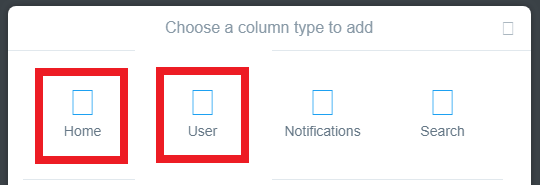
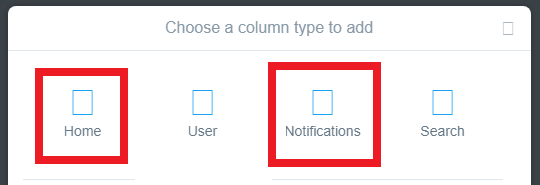
update README.md

Changed region(s): [[0.2667, 0.3243, 0.7111, 0.9189], [0.237, 0.2703, 0.5037, 0.2973]]

diff --git a/README.md b/README.md
@@ -50,10 +50,10 @@
 
 4. 트위터 로그인을 진행합니다.
 
-5. `Add Column` 을 눌러 스트리밍을 사용하려는 계정의 `Home` 과 `User` 를 추가해줍니다.
+5. `Add Column` 을 눌러 스트리밍을 사용하려는 계정의 `Home` 과 `Notification` 두개 를 추가해줍니다.
 
-  - Home 만 추가해줘도 되지만 Activity 를 추가해주지 않으면 멘션이 제대로 오지 않을 수 있습니다.
-  - **원활한 사용을 위해 이미지 사용 기능이 꺼져있습니다**
+  - `Home` 만 추가해줘도 되지만 `Notification` 를 추가해주지 않으면 멘션이 제대로 오지 않을 수 있습니다.
+  - **원활한 사용을 위해 이미지 사용 기능이 꺼져있습니다. 이미지가 보이지 않는게 정상입니다.**
 
   ![](docs/5-1.png)
   ![](docs/5-2.png)
